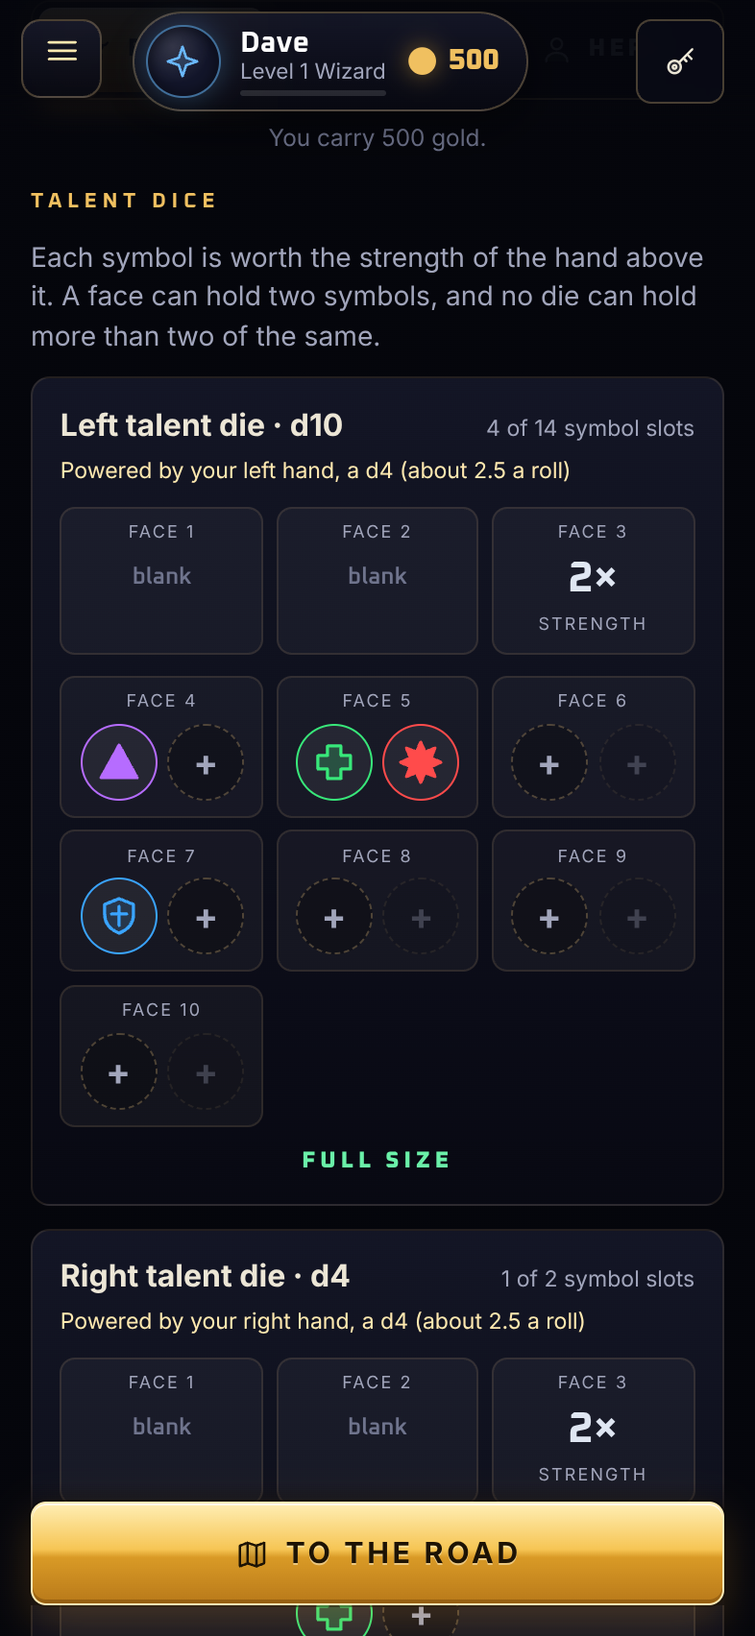
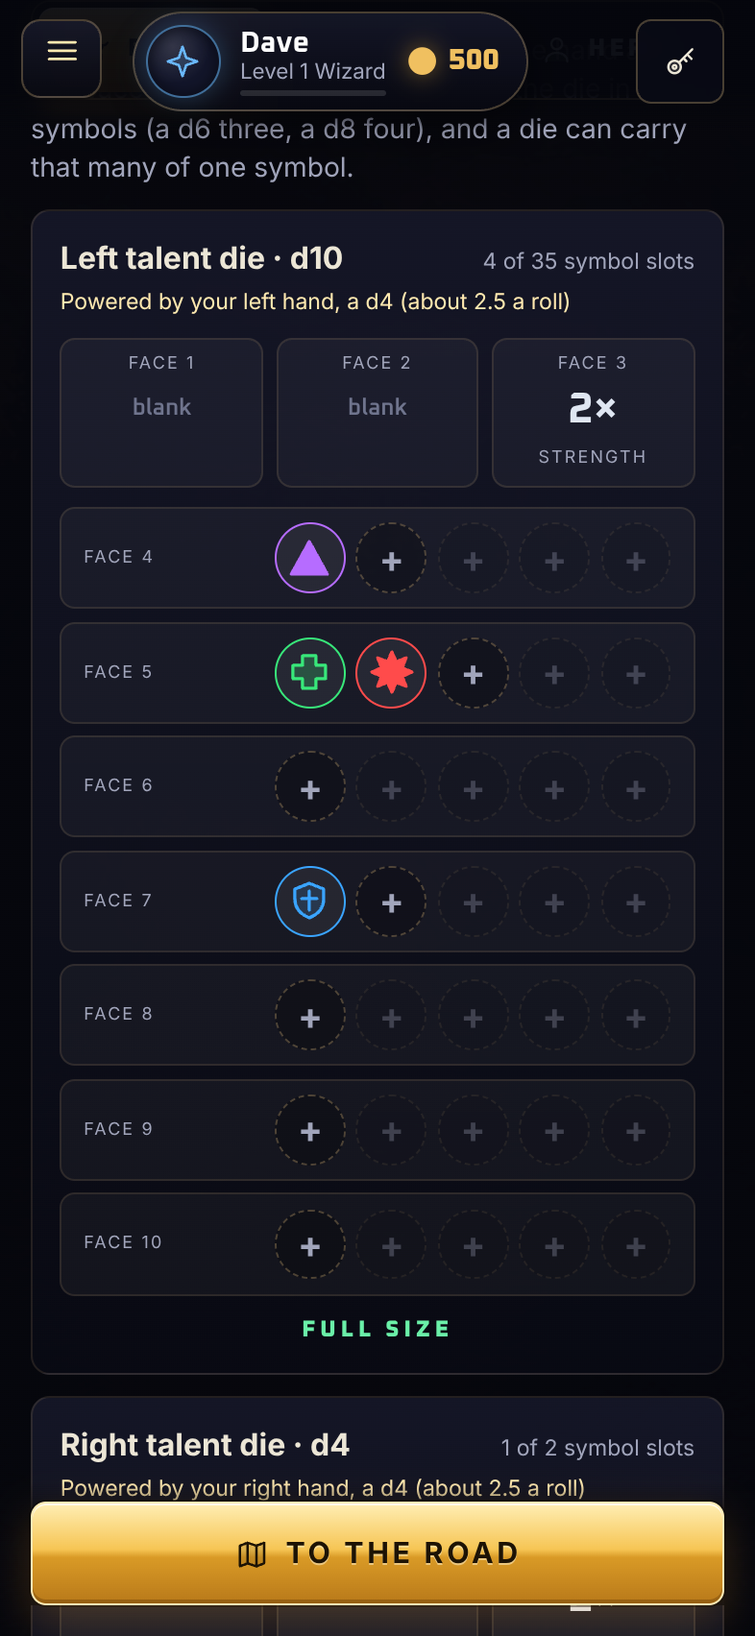
Talent die faces hold up to half the die's sides in symbols (d4 two, d6 three, d8 four, d10 five)
Claude-Session: https://claude.ai/code/session_01XrkTJtaYv6Q75HHLppGZE7

diff --git a/index.html b/index.html
@@ -5,7 +5,7 @@
   <meta name="viewport" content="width=device-width, initial-scale=1, viewport-fit=cover">
   <meta name="theme-color" content="#04060d">
   <title>Quest Dice</title>
-  <script type="importmap">{"imports":{"three":"./vendor/three/build/three.module.js","three/addons/":"./vendor/three/examples/jsm/","./js/auction.js":"./js/auction.js?v=20261013f","./js/audio.js":"./js/audio.js?v=20261013f","./js/cloud.js":"./js/cloud.js?v=20261013f","./js/coach.js":"./js/coach.js?v=20261013f","./js/data.js":"./js/data.js?v=20261013f","./js/die3d.js":"./js/die3d.js?v=20261013f","./js/dom.js":"./js/dom.js?v=20261013f","./js/engine.js":"./js/engine.js?v=20261013f","./js/firebase-config.js":"./js/firebase-config.js?v=20261013f","./js/fx.js":"./js/fx.js?v=20261013f","./js/g3/battle3d.js":"./js/g3/battle3d.js?v=20261013f","./js/g3/brag.js":"./js/g3/brag.js?v=20261013f","./js/g3/director.js":"./js/g3/director.js?v=20261013f","./js/g3/flat.js":"./js/g3/flat.js?v=20261013f","./js/g3/hudkit.js":"./js/g3/hudkit.js?v=20261013f","./js/g3/icons.js":"./js/g3/icons.js?v=20261013f","./js/g3/online.js":"./js/g3/online.js?v=20261013f","./js/g3/pets.js":"./js/g3/pets.js?v=20261013f","./js/g3/portrait.js":"./js/g3/portrait.js?v=20261013f","./js/g3/powers.js":"./js/g3/powers.js?v=20261013f","./js/g3/roundcard.js":"./js/g3/roundcard.js?v=20261013f","./js/g3/scenery.js":"./js/g3/scenery.js?v=20261013f","./js/g3/screens.js":"./js/g3/screens.js?v=20261013f","./js/g3/scrui.js":"./js/g3/scrui.js?v=20261013f","./js/g3/stubs.js":"./js/g3/stubs.js?v=20261013f","./js/g3/tutboard.js":"./js/g3/tutboard.js?v=20261013f","./js/g3/tutorial.js":"./js/g3/tutorial.js?v=20261013f","./js/g3/world.js":"./js/g3/world.js?v=20261013f","./js/gfx/actors/base.js":"./js/gfx/actors/base.js?v=20261013f","./js/gfx/actors/common.js":"./js/gfx/actors/common.js?v=20261013f","./js/gfx/actors/cultist.js":"./js/gfx/actors/cultist.js?v=20261013f","./js/gfx/actors/goblin.js":"./js/gfx/actors/goblin.js?v=20261013f","./js/gfx/actors/goblinking.js":"./js/gfx/actors/goblinking.js?v=20261013f","./js/gfx/actors/hero.js":"./js/gfx/actors/hero.js?v=20261013f","./js/gfx/actors/heroclips.js":"./js/gfx/actors/heroclips.js?v=20261013f","./js/gfx/actors/herocloth.js":"./js/gfx/actors/herocloth.js?v=20261013f","./js/gfx/actors/herokit.js":"./js/gfx/actors/herokit.js?v=20261013f","./js/gfx/actors/index.js":"./js/gfx/actors/index.js?v=20261013f","./js/gfx/actors/ogre.js":"./js/gfx/actors/ogre.js?v=20261013f","./js/gfx/actors/parts.js":"./js/gfx/actors/parts.js?v=20261013f","./js/gfx/actors/parts2.js":"./js/gfx/actors/parts2.js?v=20261013f","./js/gfx/actors/wolf.js":"./js/gfx/actors/wolf.js?v=20261013f","./js/gfx/arena.js":"./js/gfx/arena.js?v=20261013f","./js/gfx/arena/common.js":"./js/gfx/arena/common.js?v=20261013f","./js/gfx/arena/flora.js":"./js/gfx/arena/flora.js?v=20261013f","./js/gfx/arena/fx.js":"./js/gfx/arena/fx.js?v=20261013f","./js/gfx/arena/ground.js":"./js/gfx/arena/ground.js?v=20261013f","./js/gfx/arena/helpers.js":"./js/gfx/arena/helpers.js?v=20261013f","./js/gfx/arena/kit.js":"./js/gfx/arena/kit.js?v=20261013f","./js/gfx/arena/places1.js":"./js/gfx/arena/places1.js?v=20261013f","./js/gfx/arena/places2.js":"./js/gfx/arena/places2.js?v=20261013f","./js/gfx/arena/props.js":"./js/gfx/arena/props.js?v=20261013f","./js/gfx/arena/sky.js":"./js/gfx/arena/sky.js?v=20261013f","./js/gfx/arena/tex.js":"./js/gfx/arena/tex.js?v=20261013f","./js/gfx/core.js":"./js/gfx/core.js?v=20261013f","./js/gfx/demo/actor.js":"./js/gfx/demo/actor.js?v=20261013f","./js/gfx/demo/arena.js":"./js/gfx/demo/arena.js?v=20261013f","./js/gfx/demo/dicegallery.js":"./js/gfx/demo/dicegallery.js?v=20261013f","./js/gfx/demo/dicelab.js":"./js/gfx/demo/dicelab.js?v=20261013f","./js/gfx/demo/materials.js":"./js/gfx/demo/materials.js?v=20261013f","./js/gfx/demo/tray.js":"./js/gfx/demo/tray.js?v=20261013f","./js/gfx/demo/vfx.js":"./js/gfx/demo/vfx.js?v=20261013f","./js/gfx/demo/weapons.js":"./js/gfx/demo/weapons.js?v=20261013f","./js/gfx/dice/art.js":"./js/gfx/dice/art.js?v=20261013f","./js/gfx/dice/dice.js":"./js/gfx/dice/dice.js?v=20261013f","./js/gfx/dice/faces.js":"./js/gfx/dice/faces.js?v=20261013f","./js/gfx/dice/fx.js":"./js/gfx/dice/fx.js?v=20261013f","./js/gfx/dice/poly.js":"./js/gfx/dice/poly.js?v=20261013f","./js/gfx/dice/roll.js":"./js/gfx/dice/roll.js?v=20261013f","./js/gfx/dice/tray.js":"./js/gfx/dice/tray.js?v=20261013f","./js/gfx/env.js":"./js/gfx/env.js?v=20261013f","./js/gfx/mats.js":"./js/gfx/mats.js?v=20261013f","./js/gfx/noise.js":"./js/gfx/noise.js?v=20261013f","./js/gfx/particles.js":"./js/gfx/particles.js?v=20261013f","./js/gfx/post.js":"./js/gfx/post.js?v=20261013f","./js/gfx/rig.js":"./js/gfx/rig.js?v=20261013f","./js/gfx/tex.js":"./js/gfx/tex.js?v=20261013f","./js/gfx/util.js":"./js/gfx/util.js?v=20261013f","./js/gfx/vfx.js":"./js/gfx/vfx.js?v=20261013f","./js/gfx/vfx/quads.js":"./js/gfx/vfx/quads.js?v=20261013f","./js/gfx/vfx/shaders.js":"./js/gfx/vfx/shaders.js?v=20261013f","./js/gfx/vfx/strips.js":"./js/gfx/vfx/strips.js?v=20261013f","./js/gfx/vfx/text.js":"./js/gfx/vfx/text.js?v=20261013f","./js/gfx/vfx/textures.js":"./js/gfx/vfx/textures.js?v=20261013f","./js/gfx/weapons.js":"./js/gfx/weapons.js?v=20261013f","./js/main.js":"./js/main.js?v=20261013f","./js/mat.js":"./js/mat.js?v=20261013f","./js/net.js":"./js/net.js?v=20261013f","./js/pack.js":"./js/pack.js?v=20261013f","./js/readout.js":"./js/readout.js?v=20261013f","./js/roads.js":"./js/roads.js?v=20261013f","./js/save.js":"./js/save.js?v=20261013f","./js/session.js":"./js/session.js?v=20261013f","./js/story.js":"./js/story.js?v=20261013f","./js/table.js":"./js/table.js?v=20261013f","./js/ui.js":"./js/ui.js?v=20261013f","./js/view.js":"./js/view.js?v=20261013f"}}</script>
+  <script type="importmap">{"imports":{"three":"./vendor/three/build/three.module.js","three/addons/":"./vendor/three/examples/jsm/","./js/auction.js":"./js/auction.js?v=20261013h","./js/audio.js":"./js/audio.js?v=20261013h","./js/cloud.js":"./js/cloud.js?v=20261013h","./js/coach.js":"./js/coach.js?v=20261013h","./js/data.js":"./js/data.js?v=20261013h","./js/die3d.js":"./js/die3d.js?v=20261013h","./js/dom.js":"./js/dom.js?v=20261013h","./js/engine.js":"./js/engine.js?v=20261013h","./js/firebase-config.js":"./js/firebase-config.js?v=20261013h","./js/fx.js":"./js/fx.js?v=20261013h","./js/g3/battle3d.js":"./js/g3/battle3d.js?v=20261013h","./js/g3/brag.js":"./js/g3/brag.js?v=20261013h","./js/g3/director.js":"./js/g3/director.js?v=20261013h","./js/g3/flat.js":"./js/g3/flat.js?v=20261013h","./js/g3/hudkit.js":"./js/g3/hudkit.js?v=20261013h","./js/g3/icons.js":"./js/g3/icons.js?v=20261013h","./js/g3/online.js":"./js/g3/online.js?v=20261013h","./js/g3/pets.js":"./js/g3/pets.js?v=20261013h","./js/g3/portrait.js":"./js/g3/portrait.js?v=20261013h","./js/g3/powers.js":"./js/g3/powers.js?v=20261013h","./js/g3/roundcard.js":"./js/g3/roundcard.js?v=20261013h","./js/g3/scenery.js":"./js/g3/scenery.js?v=20261013h","./js/g3/screens.js":"./js/g3/screens.js?v=20261013h","./js/g3/scrui.js":"./js/g3/scrui.js?v=20261013h","./js/g3/stubs.js":"./js/g3/stubs.js?v=20261013h","./js/g3/tutboard.js":"./js/g3/tutboard.js?v=20261013h","./js/g3/tutorial.js":"./js/g3/tutorial.js?v=20261013h","./js/g3/world.js":"./js/g3/world.js?v=20261013h","./js/gfx/actors/base.js":"./js/gfx/actors/base.js?v=20261013h","./js/gfx/actors/common.js":"./js/gfx/actors/common.js?v=20261013h","./js/gfx/actors/cultist.js":"./js/gfx/actors/cultist.js?v=20261013h","./js/gfx/actors/goblin.js":"./js/gfx/actors/goblin.js?v=20261013h","./js/gfx/actors/goblinking.js":"./js/gfx/actors/goblinking.js?v=20261013h","./js/gfx/actors/hero.js":"./js/gfx/actors/hero.js?v=20261013h","./js/gfx/actors/heroclips.js":"./js/gfx/actors/heroclips.js?v=20261013h","./js/gfx/actors/herocloth.js":"./js/gfx/actors/herocloth.js?v=20261013h","./js/gfx/actors/herokit.js":"./js/gfx/actors/herokit.js?v=20261013h","./js/gfx/actors/index.js":"./js/gfx/actors/index.js?v=20261013h","./js/gfx/actors/ogre.js":"./js/gfx/actors/ogre.js?v=20261013h","./js/gfx/actors/parts.js":"./js/gfx/actors/parts.js?v=20261013h","./js/gfx/actors/parts2.js":"./js/gfx/actors/parts2.js?v=20261013h","./js/gfx/actors/wolf.js":"./js/gfx/actors/wolf.js?v=20261013h","./js/gfx/arena.js":"./js/gfx/arena.js?v=20261013h","./js/gfx/arena/common.js":"./js/gfx/arena/common.js?v=20261013h","./js/gfx/arena/flora.js":"./js/gfx/arena/flora.js?v=20261013h","./js/gfx/arena/fx.js":"./js/gfx/arena/fx.js?v=20261013h","./js/gfx/arena/ground.js":"./js/gfx/arena/ground.js?v=20261013h","./js/gfx/arena/helpers.js":"./js/gfx/arena/helpers.js?v=20261013h","./js/gfx/arena/kit.js":"./js/gfx/arena/kit.js?v=20261013h","./js/gfx/arena/places1.js":"./js/gfx/arena/places1.js?v=20261013h","./js/gfx/arena/places2.js":"./js/gfx/arena/places2.js?v=20261013h","./js/gfx/arena/props.js":"./js/gfx/arena/props.js?v=20261013h","./js/gfx/arena/sky.js":"./js/gfx/arena/sky.js?v=20261013h","./js/gfx/arena/tex.js":"./js/gfx/arena/tex.js?v=20261013h","./js/gfx/core.js":"./js/gfx/core.js?v=20261013h","./js/gfx/demo/actor.js":"./js/gfx/demo/actor.js?v=20261013h","./js/gfx/demo/arena.js":"./js/gfx/demo/arena.js?v=20261013h","./js/gfx/demo/dicegallery.js":"./js/gfx/demo/dicegallery.js?v=20261013h","./js/gfx/demo/dicelab.js":"./js/gfx/demo/dicelab.js?v=20261013h","./js/gfx/demo/materials.js":"./js/gfx/demo/materials.js?v=20261013h","./js/gfx/demo/tray.js":"./js/gfx/demo/tray.js?v=20261013h","./js/gfx/demo/vfx.js":"./js/gfx/demo/vfx.js?v=20261013h","./js/gfx/demo/weapons.js":"./js/gfx/demo/weapons.js?v=20261013h","./js/gfx/dice/art.js":"./js/gfx/dice/art.js?v=20261013h","./js/gfx/dice/dice.js":"./js/gfx/dice/dice.js?v=20261013h","./js/gfx/dice/faces.js":"./js/gfx/dice/faces.js?v=20261013h","./js/gfx/dice/fx.js":"./js/gfx/dice/fx.js?v=20261013h","./js/gfx/dice/poly.js":"./js/gfx/dice/poly.js?v=20261013h","./js/gfx/dice/roll.js":"./js/gfx/dice/roll.js?v=20261013h","./js/gfx/dice/tray.js":"./js/gfx/dice/tray.js?v=20261013h","./js/gfx/env.js":"./js/gfx/env.js?v=20261013h","./js/gfx/mats.js":"./js/gfx/mats.js?v=20261013h","./js/gfx/noise.js":"./js/gfx/noise.js?v=20261013h","./js/gfx/particles.js":"./js/gfx/particles.js?v=20261013h","./js/gfx/post.js":"./js/gfx/post.js?v=20261013h","./js/gfx/rig.js":"./js/gfx/rig.js?v=20261013h","./js/gfx/tex.js":"./js/gfx/tex.js?v=20261013h","./js/gfx/util.js":"./js/gfx/util.js?v=20261013h","./js/gfx/vfx.js":"./js/gfx/vfx.js?v=20261013h","./js/gfx/vfx/quads.js":"./js/gfx/vfx/quads.js?v=20261013h","./js/gfx/vfx/shaders.js":"./js/gfx/vfx/shaders.js?v=20261013h","./js/gfx/vfx/strips.js":"./js/gfx/vfx/strips.js?v=20261013h","./js/gfx/vfx/text.js":"./js/gfx/vfx/text.js?v=20261013h","./js/gfx/vfx/textures.js":"./js/gfx/vfx/textures.js?v=20261013h","./js/gfx/weapons.js":"./js/gfx/weapons.js?v=20261013h","./js/main.js":"./js/main.js?v=20261013h","./js/mat.js":"./js/mat.js?v=20261013h","./js/net.js":"./js/net.js?v=20261013h","./js/pack.js":"./js/pack.js?v=20261013h","./js/readout.js":"./js/readout.js?v=20261013h","./js/roads.js":"./js/roads.js?v=20261013h","./js/save.js":"./js/save.js?v=20261013h","./js/session.js":"./js/session.js?v=20261013h","./js/story.js":"./js/story.js?v=20261013h","./js/table.js":"./js/table.js?v=20261013h","./js/ui.js":"./js/ui.js?v=20261013h","./js/view.js":"./js/view.js?v=20261013h"}}</script>
   <meta name="description" content="Roll against the dark. A fantasy dice campaign for one to six heroes, each on their own phone.">
   <meta property="og:title" content="Quest Dice">
   <meta property="og:description" content="Roll against the dark. A fantasy dice adventure: solo or with friends, free on your phone.">
@@ -23,16 +23,16 @@
   <link rel="preconnect" href="https://fonts.googleapis.com">
   <link rel="preconnect" href="https://fonts.gstatic.com" crossorigin>
   <link href="https://fonts.googleapis.com/css2?family=Archivo+Black&family=Cormorant+Garamond:ital,wght@0,500;0,600;1,500&family=Inter:wght@400;500;600;700&family=Oxanium:wght@500;600;700;800&display=swap" rel="stylesheet">
-  <link rel="stylesheet" href="css/style.css?v=20261013f">
-  <link rel="stylesheet" href="css/g3.css?v=20261013f">
-  <link rel="stylesheet" href="css/screens.css?v=20261013f">
-  <link rel="stylesheet" href="css/hud.css?v=20261013f">
-  <link rel="stylesheet" href="css/board.css?v=20261013f">
-  <link rel="stylesheet" href="css/powers.css?v=20261013f">
-  <link rel="stylesheet" href="css/scenery.css?v=20261013f">
-  <link rel="stylesheet" href="css/tutorial.css?v=20261013f">
-  <link rel="stylesheet" href="css/readout.css?v=20261013f">
-  <link rel="stylesheet" href="css/brag.css?v=20261013f">
+  <link rel="stylesheet" href="css/style.css?v=20261013h">
+  <link rel="stylesheet" href="css/g3.css?v=20261013h">
+  <link rel="stylesheet" href="css/screens.css?v=20261013h">
+  <link rel="stylesheet" href="css/hud.css?v=20261013h">
+  <link rel="stylesheet" href="css/board.css?v=20261013h">
+  <link rel="stylesheet" href="css/powers.css?v=20261013h">
+  <link rel="stylesheet" href="css/scenery.css?v=20261013h">
+  <link rel="stylesheet" href="css/tutorial.css?v=20261013h">
+  <link rel="stylesheet" href="css/readout.css?v=20261013h">
+  <link rel="stylesheet" href="css/brag.css?v=20261013h">
 </head>
 <body>
   <div class="app-frame">
@@ -50,6 +50,6 @@
   <div id="toast" role="status"></div>
   <div id="modal"></div>
   <noscript><p style="padding:2rem;color:#fff">QuestDice needs JavaScript.</p></noscript>
-  <script type="module" src="js/main.js?v=20261013f"></script>
+  <script type="module" src="js/main.js?v=20261013h"></script>
 </body>
 </html>

diff --git a/js/g3/scrui.js b/js/g3/scrui.js
@@ -551,7 +551,7 @@ function talentCard(hero, slot) {
   const refresh = () => { sfx.card(); X.persist(); X.renderCamp(); };
   const symFaces = Array.from({ length: info.faces }, (_, f) => {
     const cur = faces[f] || [];
-    const slotsEl = Array.from({ length: D.TALENT_PER_FACE }, (_, i) => {
+    const slotsEl = Array.from({ length: info.per }, (_, i) => {
       const k = cur[i]; const open = TAL.slot === slot && TAL.face === f && i === cur.length;
       if (k) return h('button', { class: `tal-slot full ${SYM_ICO[k][1]}`, type: 'button', 'aria-label': `${D.TALENT_SYMS[k].name}. Tap to remove.`, onclick: tap(() => { HE.removeTalent(hero, slot, f, i); refresh(); }) }, ico(SYM_ICO[k][0]));
       return h('button', { class: `tal-slot ${open ? 'open' : ''}`, type: 'button', disabled: i > cur.length, 'aria-label': 'Add a symbol', onclick: tap(() => { TAL.slot = slot; TAL.face = f; X.renderCamp(); }) }, '+');
@@ -560,15 +560,15 @@ function talentCard(hero, slot) {
   });
   const picking = TAL.slot === slot && TAL.face != null;
   const picker = picking ? h('div', { class: 'tal-pick' }, Object.keys(D.TALENT_SYMS).map((k) => {
-    const left = D.TALENT_MAX_SAME - E.talentCount(hero, slot, k); const full = (faces[TAL.face] || []).length >= D.TALENT_PER_FACE;
+    const left = info.same - E.talentCount(hero, slot, k); const full = (faces[TAL.face] || []).length >= info.per;
     const can = left > 0 && !full && hero.gold >= info.cost;
-    return h('button', { class: `tal-opt ${SYM_ICO[k][1]}`, type: 'button', disabled: !can, 'aria-label': `${D.TALENT_SYMS[k].name}: ${D.TALENT_SYMS[k].text} ${left} left on this die.`, onclick: tap(() => { if (HE.addTalent(hero, slot, TAL.face, k)) { TAL.face = (faces[TAL.face] || []).length + 1 >= D.TALENT_PER_FACE ? null : TAL.face; sfx.coin(); X.persist(); X.renderCamp(); } else sfx.error(); }) }, ico(SYM_ICO[k][0]), h('b', {}, D.TALENT_SYMS[k].name), h('small', {}, `about +${symAvg(hero, slot, k)} · ${left} left`));
+    return h('button', { class: `tal-opt ${SYM_ICO[k][1]}`, type: 'button', disabled: !can, 'aria-label': `${D.TALENT_SYMS[k].name}: ${D.TALENT_SYMS[k].text} ${left} left on this die.`, onclick: tap(() => { if (HE.addTalent(hero, slot, TAL.face, k)) { TAL.face = (faces[TAL.face] || []).length + 1 >= info.per ? null : TAL.face; sfx.coin(); X.persist(); X.renderCamp(); } else sfx.error(); }) }, ico(SYM_ICO[k][0]), h('b', {}, D.TALENT_SYMS[k].name), h('small', {}, `about +${symAvg(hero, slot, k)} · ${left} left`));
   }), h('small', { class: 'tal-cost' }, `Each symbol costs ${info.cost} gold. Tap a placed symbol to take it off.`)) : null;
   return h('div', { class: 'sx-urow tal-die' },
     h('div', { class: 'tal-head' }, h('b', {}, `${DIE_NAME[slot]} · d${size}`), h('small', {}, `${info.used} of ${info.slots} symbol slots`), h('small', { class: 'tal-hand' }, `Powered by your ${slot === 'SW' ? 'left' : 'right'} hand, a d${hero.strength[slot === 'SW' ? 'W' : 'E']} (about ${((hero.strength[slot === 'SW' ? 'W' : 'E'] + 1) / 2).toFixed(1)} a roll)`)),
     h('div', { class: 'tal-strip fixed' }, h('div', { class: 'tal-face blank' }, h('small', {}, 'Face 1'), h('b', {}, 'blank')), h('div', { class: 'tal-face blank' }, h('small', {}, 'Face 2'), h('b', {}, 'blank')),
       h('div', { class: 'tal-face x2' }, h('small', {}, 'Face 3'), h('b', {}, '2×'), h('small', {}, 'Strength'))),
-    h('div', { class: 'tal-strip syms' }, symFaces),
+    h('div', { class: `tal-strip syms ${info.per > 2 ? 'wide' : ''}` }, symFaces),
     picker,
     up.next ? btn(`Grow to d${up.next} · ${up.cost}`, () => { if (HE.upgradeDie(hero, 'special', slot)) { sfx.level(); X.persist(); X.renderCamp(); } }, { icon: 'coin', iconAfter: true, disabled: !up.ok, cls: `ur-buy ${!up.ok ? 'poor' : ''}`, aria: `Grow the talent die to d${up.next}` }) : h('span', { class: 'ur-max' }, 'FULL SIZE'),
     up.act ? h('small', { class: 'ur-next' }, ico('lock'), ` waits for Act ${D.ROMAN[up.act]}`) : up.next && hero.level < gate ? h('small', { class: 'ur-next' }, ico('lock'), ` needs level ${gate}`) : null);
@@ -668,7 +668,7 @@ function forgeTab() {
     unlockSection(hero),
     hasTalent ? coachBox('c_talent') : null,
     hasTalent ? eyebrow('Talent dice') : null,
-    hasTalent ? h('p', { class: 'tab-intro' }, 'Each symbol is worth the strength of the hand above it. A face can hold two symbols, and no die can hold more than two of the same.') : null,
+    hasTalent ? h('p', { class: 'tab-intro' }, 'Each symbol is worth the strength of the hand above it. A face holds up to half the sides of the die in symbols (a d6 three, a d8 four), and a die can carry that many of one symbol.') : null,
     ...['SW', 'SE'].filter((k) => E.isActive(hero, k)).map((k) => talentCard(hero, k)),
     petSection(hero),
     eyebrow('Strength dice'),

diff --git a/js/engine.js b/js/engine.js
@@ -4,7 +4,7 @@
 import {
   ROLE, LANES, CARDINALS, MAGIC_CAP, MAX_LEVEL, SYNERGY_BONUS, HEAL_COST,
   HEAL_AMOUNT, NUDGE_COST, RECHARGE_COST, START_MAGIC, REROLL_DICE, REROLL_DIE_COST, REROLL_DICE_MAX, RES_BY_SIZE, FACE_PAY, SPEED_STEPS, HEART_AMP, HEART_COLOR_BONUS,
-  STRAIGHT, RARITY_WEIGHTS, RARITY_SELL, WEAPONS, LOOT_WEIGHTS, START_DICE, UNLOCK_COST, DIFFICULTY, ENCOUNTER, TALENT_SYMS, TALENT_MAX_SAME, POWER_UPGRADE, TALENT_PER_FACE, TALENT_SLOT_COST, TALENT_FACES, CLASS_TALENT, RULES, STRENGTH_STEPS, POWER_LEARN, POWER_SLOTS,
+  STRAIGHT, RARITY_WEIGHTS, RARITY_SELL, WEAPONS, LOOT_WEIGHTS, START_DICE, UNLOCK_COST, DIFFICULTY, ENCOUNTER, TALENT_SYMS, TALENT_MAX_SAME, talentPerFace, POWER_UPGRADE, TALENT_PER_FACE, TALENT_SLOT_COST, TALENT_FACES, CLASS_TALENT, RULES, STRENGTH_STEPS, POWER_LEARN, POWER_SLOTS,
   SPECIAL_STEPS, NEXT_SIZE, dieCapForAct, ROMAN, xpToNext, CLASSES, PERKS, MONSTERS, ACTS, QUESTS_PER_ACT, ELITE_STEPS,
   PARTY, ENEMY_CAP, ORDINARY, FORGE_COST, WEAPON_SIZE_STEPS, ACT_HP, ACT_FLAT, STEP_HP, PERIL, POINTS, PLACE_GOLD, TEAM_TRIPLE_BONUS, MORAL_BOOST, SHARE_MAGIC, REVIVE_COST, REVIVE_HP, POTION_BELT, POTION_PRICE, POTION_HEAL, POTION_START, RARITY_MULT, SIZE_VALUE, SELL_SHARE, BAG_MAX, DROP_SIZES,
   LEGENDARY, LEGENDARY_CHANCE, isLegendary, PETS, PET_PRICE, PET_POWER, PET_GROW, petKindMax,
@@ -244,8 +244,8 @@ export function petGrowInfo(hero) {
 export function growPet(hero) { const r = petGrowInfo(hero); if (!r?.ok) return false; hero.gold -= r.cost; hero.pet.size = r.next; while (hero.pet.faces.length < r.next - 1) hero.pet.faces.push([]); return true; }
 export const talentCount = (hero, slot, sym) => (hero.talent?.[slot] || []).flat().filter((x) => x === sym).length;
 export function talentInfo(hero, slot) {
-  const faces = TALENT_FACES[hero.special[slot]] || 1; const cur = hero.talent?.[slot] || [];
-  return { faces, slots: faces * TALENT_PER_FACE, used: cur.flat().length, cost: TALENT_SLOT_COST };
+  const size = hero.special[slot]; const faces = TALENT_FACES[size] || 1; const cur = hero.talent?.[slot] || []; const per = talentPerFace(size);
+  return { faces, per, same: per, slots: faces * per, used: cur.flat().length, cost: TALENT_SLOT_COST };
 }
 // Put a symbol on a symbol face (0-based). Every slot costs the same. At most two of one symbol per die, at most two symbols per face.
 export function addTalent(hero, slot, face, sym) {
@@ -253,7 +253,7 @@ export function addTalent(hero, slot, face, sym) {
   const t = talentInfo(hero, slot); if (face < 0 || face >= t.faces || hero.gold < t.cost) return false;
   hero.talent = hero.talent || {}; const faces = (hero.talent[slot] = hero.talent[slot] || []);
   while (faces.length < t.faces) faces.push([]);
-  if (faces[face].length >= TALENT_PER_FACE || talentCount(hero, slot, sym) >= TALENT_MAX_SAME) return false;
+  if (faces[face].length >= t.per || talentCount(hero, slot, sym) >= t.same) return false;
   hero.gold -= t.cost; faces[face].push(sym); return true;
 }
 export function removeTalent(hero, slot, face, idx) {

diff --git a/css/screens.css b/css/screens.css
@@ -380,7 +380,9 @@ body.sx #toast .toast { border-radius: 10px; border-color: rgba(255, 214, 140, .
 .tal-strip { display: grid; gap: .4rem; } .tal-strip.fixed { grid-template-columns: repeat(3, 1fr); } .tal-strip.syms { grid-template-columns: repeat(auto-fit, minmax(6.2rem, 1fr)); }
 .tal-face { display: flex; flex-direction: column; align-items: center; gap: .3rem; padding: .4rem .3rem .5rem; border-radius: 8px; border: 1px solid var(--hair-2); background: rgba(255, 255, 255, .04); min-width: 0; }
 .tal-face small { font-size: .56rem; letter-spacing: .12em; color: var(--dim); text-transform: uppercase; white-space: nowrap; } .tal-face.blank b, .tal-face.x2 b { font-family: var(--font-display); font-size: .95rem; color: #dfe6f2; line-height: 1.6rem; } .tal-face.blank b { color: var(--faint, #6c7388); font-weight: 600; font-size: .75rem; } .tal-face.x2 b { font-size: 1.4rem; }
-.tal-slots { display: flex; gap: .35rem; }
+.tal-slots { display: flex; flex-wrap: wrap; justify-content: center; gap: .35rem; }
+/* a die with three or more symbols a face: one face a row, label on the left */
+.tal-strip.syms.wide { grid-template-columns: 1fr; } .tal-strip.syms.wide .tal-face { flex-direction: row; justify-content: space-between; padding: .45rem .7rem; } .tal-strip.syms.wide .tal-slot { width: 2.3rem; height: 2.3rem; }
 .tal-slot { width: 2.5rem; height: 2.5rem; display: grid; place-items: center; border-radius: 50%; border: 1.5px dashed var(--hair); background: rgba(0, 0, 0, .25); color: var(--dim); font: 800 1.2rem var(--font-display); cursor: pointer; padding: 0; }
 .tal-slot:disabled { opacity: .3; cursor: default; } .tal-slot.open { border-color: var(--gold-hi); color: var(--gold-hi); box-shadow: 0 0 14px rgba(255, 214, 140, .4); }
 .tal-slot.full { border-style: solid; border-color: currentColor; background: rgba(255, 255, 255, .06); } .tal-slot .ico svg { width: 1.5rem; height: 1.5rem; }

diff --git a/js/data.js b/js/data.js
@@ -195,6 +195,8 @@ export const TALENT_PER_FACE = 2;
 export const TALENT_SLOT_COST = 25; // gold per symbol slot, the same for every slot
 // A talent die always has two blank faces and one 2x face; every other face can carry symbols (so a d4 has 1, a d6 3, a d8 5, a d10 7).
 export const TALENT_FACES = { 4: 1, 6: 3, 8: 5, 10: 7 };
+// ...and each of those faces holds up to half the die's sides in symbols (d4 two, d6 three, d8 four, d10 five); a die can carry that many of one symbol.
+export const talentPerFace = (size) => Math.max(2, Math.floor(size / 2));
 // (No pierce on talent dice: it ignores block and has no defence, so it stays on weapons, cards and the number 2.)
 export const CLASS_TALENT = {
   knight: { SW: 'heal', SE: 'atk' }, ranger: { SW: 'block', SE: 'atk' }, wizard: { SW: 'magic', SE: 'heal' },

diff --git a/docs/PLAN.md b/docs/PLAN.md
@@ -845,11 +845,12 @@ Each fight's place (already chosen in `questsFor`) paints the table: `createFlat
 
 ## 2026-10-13 — Dave's rules pass and the painted scenes (plan and status)
 Dave's list, in the order we are doing it. Each item names where it lives.
-1. **Rules audit (done).** Talent dice: always two blank faces and one 2x; every other face can carry symbols (`TALENT_FACES` in data.js:
-   d4 1 face, d6 3, d8 5, d10 7; a face holds two symbols, a die at most two of one symbol). The die grows d4 -> d6 -> d8 -> d10
-   (`SPECIAL_STEPS`). Strength dice and weapon dice are d4/d6/d8/d10 (weapons are capped by the hand that holds them).
-   **Open question for Dave:** he said d6 = three things, d8 = four, d10 = five; with two blanks and a 2x that leaves d8 with one
-   face too many, so the code fills every face (5 and 7). If he meant 4 and 5, change `TALENT_FACES` (one line) and the extra faces become blank.
+1. **Rules audit (done; clarified by Dave 13 Oct).** A talent die always has two blank faces and one 2x face. Its other faces ("symbol faces")
+   can each carry up to **half the die's sides** in symbols: d4 two, d6 three, d8 four, d10 five (`talentPerFace(size)` in data.js). The
+   number of symbol faces is what is left: d4 1, d6 3, d8 5, d10 7 (`TALENT_FACES`). A die can carry as many of one symbol as a face
+   holds (the old "never more than two of one symbol" now scales the same way; `talentInfo(...).same`). The die grows d4 -> d6 -> d8 -> d10
+   (`SPECIAL_STEPS`). Strength dice and weapon dice are d4/d6/d8/d10 (weapons are capped by the hand that holds them). Watch the balance of
+   big talent dice (a d10 face can pay five symbols at the hand's strength); a bot run with talent dice trained is still to do.
 2. **Dice grow with the act (done).** `ACT_MAX_DIE` / `dieCapForAct`: Act I d4 -> d6 only, Act II d6 -> d8, Act III d8 -> d10, for strength
    and talent dice (`actGate` in engine.js; the camp row shows "Act II" on the lock). The level and gold gates still apply.
 3. **Magic powers sheet (done).** Heal (and Potion) keep the sheet open: every tap pays for another heal, the magic and a new green
